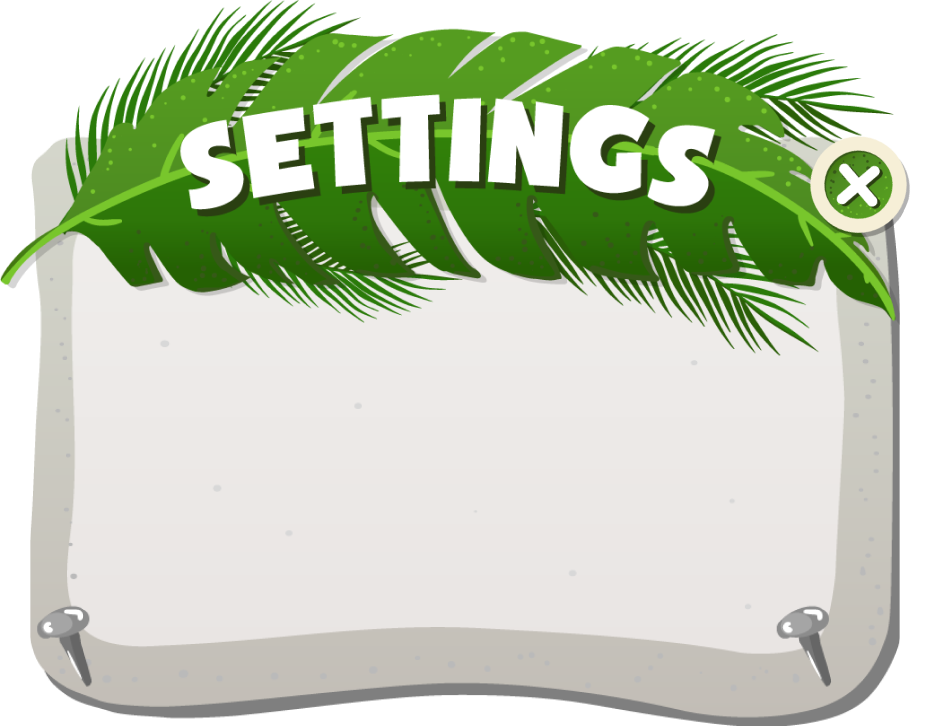
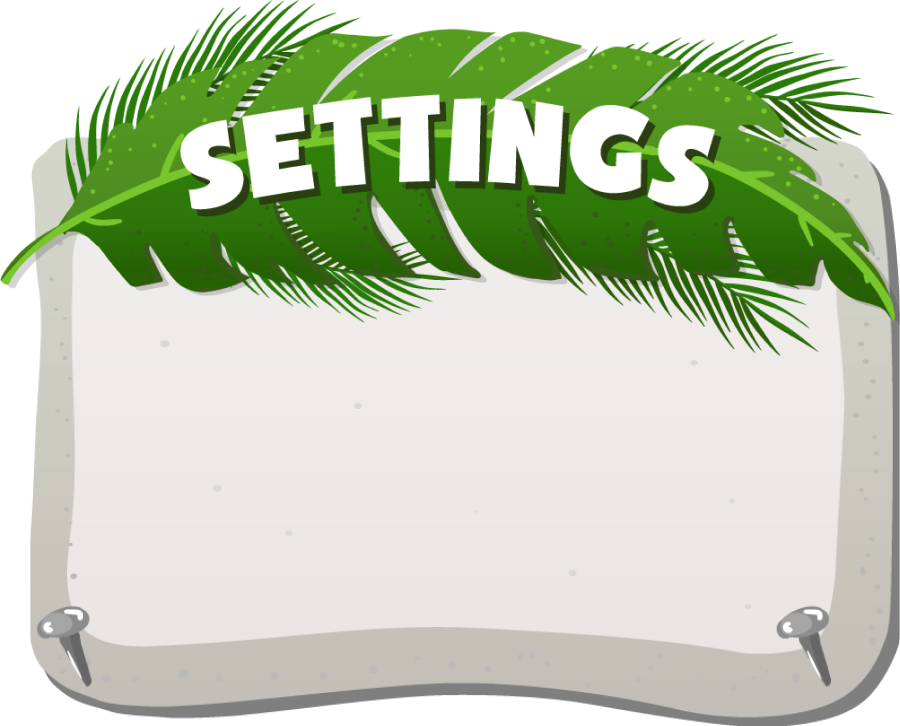
[setting-state - 1/2]

diff --git a/src/menuState.cpp b/src/menuState.cpp
@@ -1,5 +1,6 @@
 #include "menuState.h"
 #include "gamestate.h"  
+#include"settingState.h"
 #include"raylib.h"
 #include<utility>
 
@@ -11,7 +12,8 @@ MenuState::MenuState() {
         button[2] = LoadTexture("../CS202-CROSSROAD/image/menu/leader.png");
         button[3] = LoadTexture("../CS202-CROSSROAD/image/menu/prize.png");
         button[4] = LoadTexture("../CS202-CROSSROAD/image/menu/play.png");
-        name = LoadTexture("../CS202-CROSSROAD/image/menu/name.png");
+        name = LoadTexture("../CS202-CROSSROAD/image/menu/name.png");  
+        shouldPopState = false;
 }   
 
 
@@ -24,12 +26,14 @@ void MenuState::handleEvents() {
         
                 for (int i = 0; i < 5; i++){
                         if (CheckCollisionPointRec(mousePosition,{a[i].x,a[i].y,button[i].width * 0.3f, button[i].height * 0.3f})){
-                                // switch(i){
-                                // case 0:
+                                switch(i){
+                                case 0:
                                 //         //nextState = new instruction();
-                                //         break;
-                                // case 1:
-                                //         break;
+                                        //shouldPo
+                                        break;
+                                case 1:
+                                        nextState = new settingState();
+                                        break;
                                 // case 2:
                                 //         break;
                                 // case 3:
@@ -40,13 +44,15 @@ void MenuState::handleEvents() {
                                 //         break;
                                 // default:
                                 //         break;
-                                // }
+                                 }
                         }
                 }
                 if (CheckCollisionPointRec(mousePosition,{a[5].x,a[5].y,name.width * 1.0f,name.height*1.0f})){
                 
                 }
+                
         }
+        
 }
 
 void MenuState::update() {
@@ -81,13 +87,14 @@ void MenuState::draw() const {
 
 }
 
-State* MenuState::getNextState() const {
-        return nextState;
-}
 
 bool MenuState::shouldPop() const {
         return shouldPopState;
 }
 
 MenuState::~MenuState() {
+        if (nextState != nullptr){
+                delete nextState;
+        }
+        nextState = nullptr;
 }

diff --git a/src/settingState.cpp b/src/settingState.cpp
@@ -1,11 +1,19 @@
 #include"settingState.h"
 
 settingState::settingState(){
-
+    background = LoadTexture("../CS202-CROSSROAD/image/Setting/bg.png");
+    settingBoard = LoadTexture("../CS202-CROSSROAD/image/Setting/SettingBoard.png");
+    closeButton = LoadTexture("../CS202-CROSSROAD/image/Setting/closeButton.png");
+    shouldPopState = false;
 }
 
 void settingState::handleEvents(){
-
+    if (IsMouseButtonPressed(MOUSE_LEFT_BUTTON)){
+        Vector2 mousePosition = GetMousePosition();
+        if (CheckCollisionPointRec(mousePosition,{1113,202,closeButton.width * 1.0f,closeButton.height*1.0f})){
+            shouldPopState = true;  
+        }
+    }  
 }
 
 void settingState::update(){
@@ -13,17 +21,29 @@ void settingState::update(){
 }
 
 void settingState::draw() const{
+    float scaleWidth = (float)GetScreenWidth()/ background.width;
+    float scaleHeight = (float)GetScreenHeight() / background.height;
+    BeginDrawing();
+    ClearBackground(RAYWHITE);
+    // Draw background image
+    DrawTexturePro(
+        background,            
+        {0, 0, float(background.width), float(background.height)}, 
+        {0, 0, background.width *  scaleWidth, background.height * scaleHeight},            
+        {0, 0},       
+        0,                     
+        WHITE                                      
+    );
+    DrawTexture(settingBoard, 319, 81, WHITE);
+    DrawTexture(closeButton, 1113, 202, WHITE);  
 
+    EndDrawing();
 }
 
 settingState::~settingState(){
 
 }
     
-State* settingState::getNextState() const{
-
-}
-    
 bool settingState::shouldPop() const{
-
+    return shouldPopState;
 }

diff --git a/src/Game.cpp b/src/Game.cpp
@@ -18,23 +18,24 @@ Game::~Game() {
 
 void Game::run() {
     // Game loop
-    while (!WindowShouldClose()) {
-        
-        State* currentState = stateStack.top();
-        currentState->handleEvents();
-        currentState->update();
-        currentState->draw();
-        
-        
-        State* nextState = currentState->getNextState();
+    while (!WindowShouldClose() && !stateStack.empty()) {
+    State* currentState = stateStack.top();
+    currentState->setState();
+    currentState->update();
+    currentState->draw();
+    currentState->handleEvents();
 
-        // Switch to the next state if needed
-        if (nextState != nullptr) {
-            stateStack.push(nextState);
-           
-        }        
+    State* newState = currentState->getNextState();
+    //std::cout <<"**" << currentState << std::endl;
 
+    if (currentState->shouldPop()) {
+        delete currentState;
+        stateStack.pop();
+    } 
+    if (newState != nullptr) {
+        //std::cout <<"*" << newState << std::endl;
+        stateStack.push(newState);
     }
-
+}
     CloseWindow();
 }

diff --git a/src/State.h b/src/State.h
@@ -5,9 +5,11 @@ public:
     virtual ~State() = default;
     virtual void handleEvents() = 0;
     virtual void update() = 0;
-    virtual void draw() const = 0;
-    virtual State* getNextState() const = 0; 
+    virtual void draw() const = 0; 
     virtual bool shouldPop() const = 0;
+    State* getNextState() const;
+    void setState();
 protected:
     bool shouldPopState = false;
+    State* nextState = nullptr;
 };

diff --git a/src/settingState.h b/src/settingState.h
@@ -9,11 +9,9 @@ public:
     void update() override;
     void draw() const override;
     ~settingState();
-    State* getNextState() const;
     bool shouldPop() const override;
 private:
-    State* nextState = nullptr;
     Texture2D background;
-    Texture2D button[6];
-    Texture2D name;
+    Texture2D settingBoard;
+    Texture2D closeButton;
 };

diff --git a/src/menuState.h b/src/menuState.h
@@ -9,10 +9,8 @@ public:
     void update() override;
     void draw() const override;
     ~MenuState();
-    State* getNextState() const;
     bool shouldPop() const override;
 private:
-    State* nextState = nullptr;
     Texture2D background;
     Texture2D button[6];
     Texture2D name;

diff --git a/src/main.cpp b/src/main.cpp
@@ -8,7 +8,6 @@ int main() {
     const int screenHeight = 982;
     InitWindow(screenWidth, screenHeight, "Crossing Road");
     SetTargetFPS(60);
-    
     Game game;
     game.run();
 	return 0;

diff --git a/src/State.cpp b/src/State.cpp
@@ -1,0 +1,9 @@
+#include"State.h"
+
+State* State::getNextState() const {
+    return nextState;
+}
+
+void State::setState(){
+    nextState = nullptr;
+}
